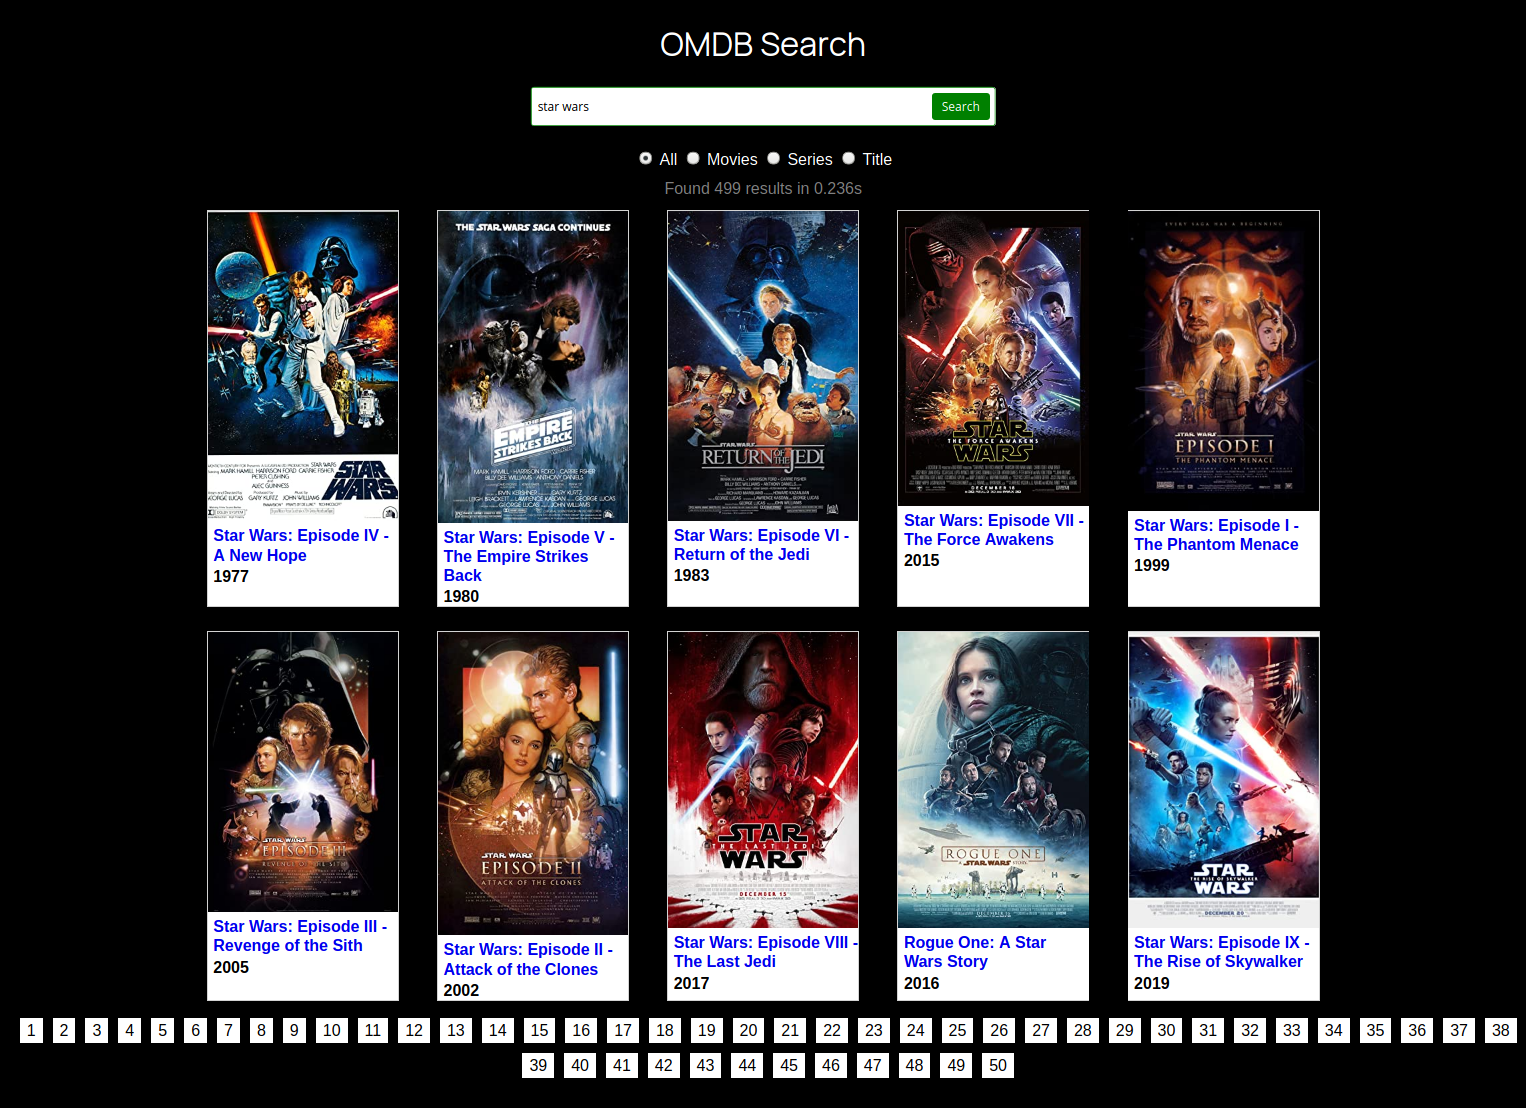
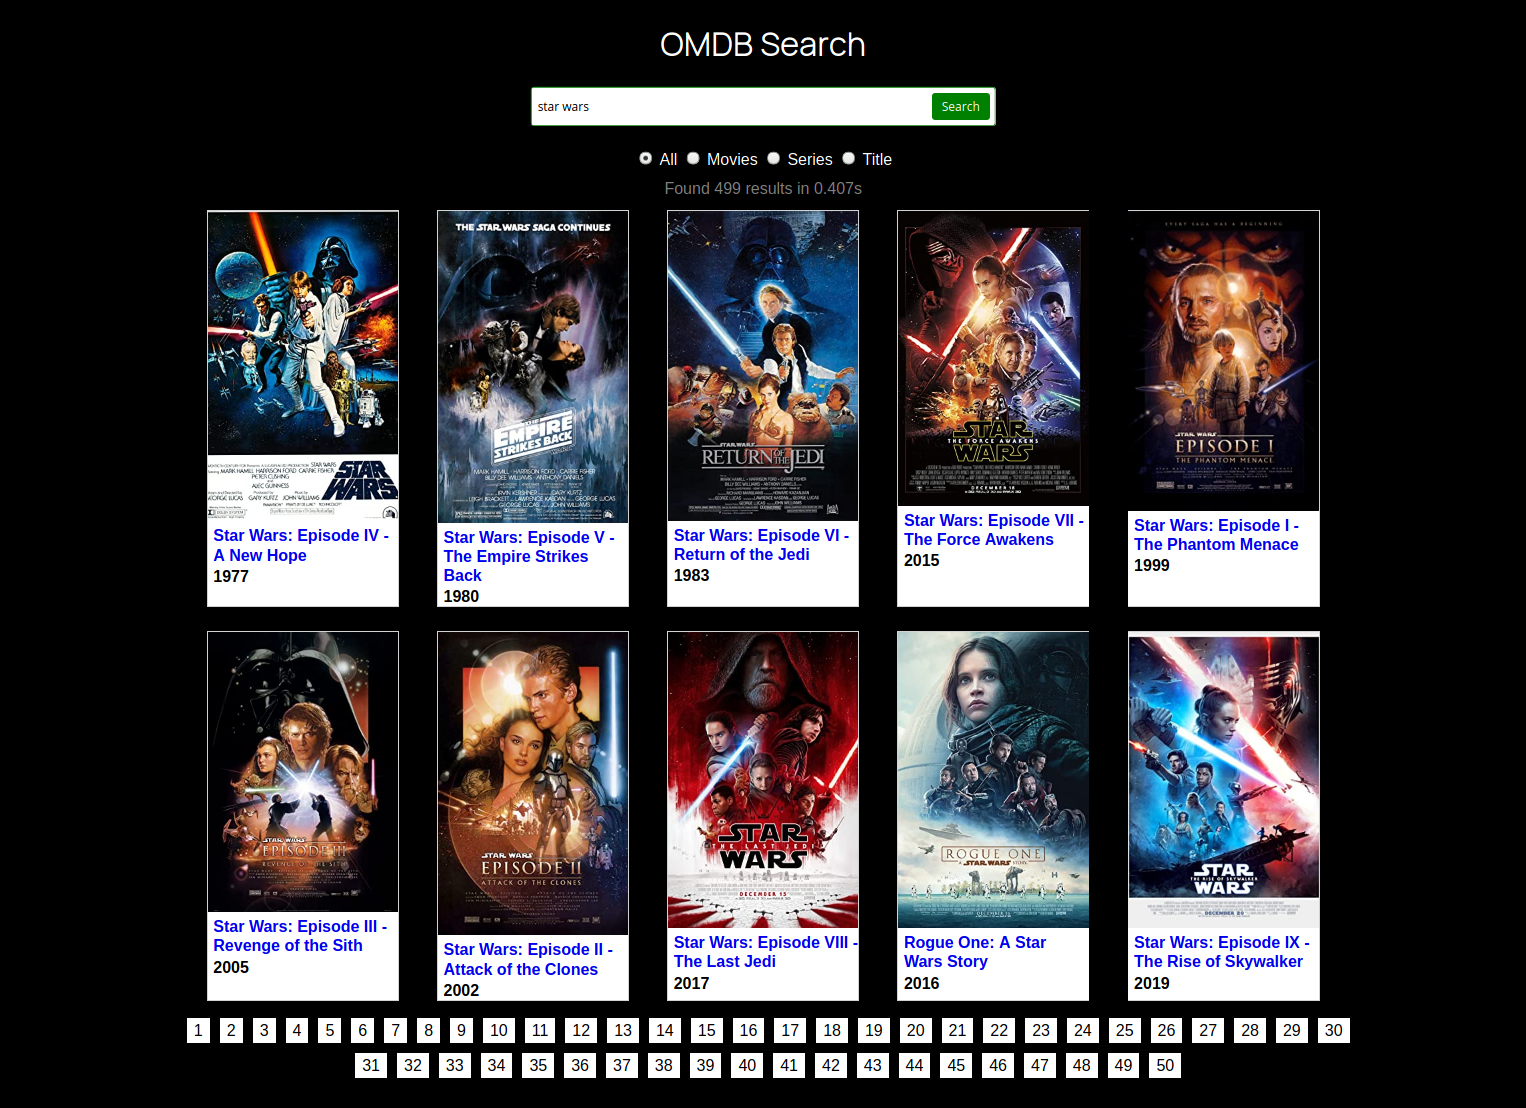
changed pages div margin

diff --git a/index.js b/index.js
@@ -22,33 +22,60 @@ function setUrlParams(page_num) {
 }
 
 //function to genrate card of result items
-function displayResultItems(result_items, result_div) {
-
-    result_items.forEach(function (item) {
+function displayResultItems(search_results, result_div) {
+    var result_items = search_results.Search
+    if(result_items === undefined) {
         var div = document.createElement('div')
         div.setAttribute('style', 'overflow: hidden; border: 1px solid lightgrey; margin: 1% 2% 1% 2%; padding: 0%; background-color: white; display: flex; flex-direction: column')
         var poster = document.createElement('img')
-        poster.setAttribute('src', item.Poster)
+        poster.setAttribute('src', search_results.Poster)
         poster.setAttribute('alt', 'Poster')
-        poster.setAttribute('style', 'width: 200px; min-height: 280px')
+        poster.setAttribute('style', 'width: 200px; min-height: 200px')
         var info_div = document.createElement('div')
         info_div.setAttribute('style', 'margin-left: 3%')
         var imdb_link = document.createElement('a')
-        imdb_link.setAttribute('href', "https://www.imdb.com/title/" + item.imdbID)
+        imdb_link.setAttribute('href', "https://www.imdb.com/title/" + search_results.imdbID)
         imdb_link.setAttribute('target', '_blank')
         imdb_link.style.textDecoration = 'none'
         var title_h4 = document.createElement('h4')
         title_h4.setAttribute('style', 'margin-bottom: 2px; margin-top: 5px')
-        title_h4.textContent = item.Title
+        title_h4.textContent = search_results.Title
         imdb_link.append(title_h4)
         var year_div = document.createElement('div')
         year_div.textContent = "Year: "
-        year_div.innerHTML = "<strong>" + item.Year + "</strong>"
+        year_div.innerHTML = "<strong>" + search_results.Year + "</strong>"
         info_div.append(imdb_link, year_div)
         div.append(poster, info_div)
         result_div.append(div)
-        
-    })
+    }
+    else {
+        result_items.forEach(function (item) {
+            var div = document.createElement('div')
+            div.setAttribute('style', 'overflow: hidden; border: 1px solid lightgrey; margin: 1% 2% 1% 2%; padding: 0%; background-color: white; display: flex; flex-direction: column')
+            var poster = document.createElement('img')
+            poster.setAttribute('src', item.Poster)
+            poster.setAttribute('alt', 'Poster')
+            poster.setAttribute('style', 'width: 200px; min-height: 280px')
+            var info_div = document.createElement('div')
+            info_div.setAttribute('style', 'margin-left: 3%')
+            var imdb_link = document.createElement('a')
+            imdb_link.setAttribute('href', "https://www.imdb.com/title/" + item.imdbID)
+            imdb_link.setAttribute('target', '_blank')
+            imdb_link.style.textDecoration = 'none'
+            var title_h4 = document.createElement('h4')
+            title_h4.setAttribute('style', 'margin-bottom: 2px; margin-top: 5px')
+            title_h4.textContent = item.Title
+            imdb_link.append(title_h4)
+            var year_div = document.createElement('div')
+            year_div.textContent = "Year: "
+            year_div.innerHTML = "<strong>" + item.Year + "</strong>"
+            info_div.append(imdb_link, year_div)
+            div.append(poster, info_div)
+            result_div.append(div)
+            
+        })
+    }
+
 }
 
 function displayResults(response_time, search_results) {
@@ -64,6 +91,9 @@ function displayResults(response_time, search_results) {
             results_div.removeChild(results_div.lastChild)
         }
     }
+    else if(document.querySelector('h2')) {
+        document.querySelector('h2').remove()
+    }
 
     //Check if results obtained from API and display response
     if(search_results.Response === 'False') {
@@ -78,16 +108,21 @@ function displayResults(response_time, search_results) {
             error_msg.remove()
         }
         var result_count = document.createElement('div')
-        result_count.textContent = 'Found ' + search_results.totalResults + ' results in ' + response_time + 's'
+        if(search_results.totalResults === undefined) {
+            result_count.textContent = 'Found result in ' + response_time + 's'
+        }
+        else {
+            result_count.textContent = 'Found ' + search_results.totalResults + ' results in ' + response_time + 's'
+        }
         result_count.id = "result-count"
         result_count.setAttribute('style', 'color: gray; text-align: center; padding: 10px')
         document.querySelector('body').insertBefore(result_count, document.querySelector('.results'))
-        displayResultItems(search_results.Search, results_div)
+        displayResultItems(search_results, results_div)
 
         //create page selectors
         var pages_div = document.createElement('div')
         pages_div.id = "pages"
-        pages_div.setAttribute('style', 'margin: 0px auto 30px auto; display: flex; flex-wrap: wrap; justify-content: center')
+        pages_div.setAttribute('style', 'margin: 0px 10% 30px 10%; display: flex; flex-wrap: wrap; justify-content: center')
         for(var page = 0; page < Math.ceil(search_results.totalResults/10); page++) {
             var page_number = document.createElement('div')
             page_number.textContent = page+1
